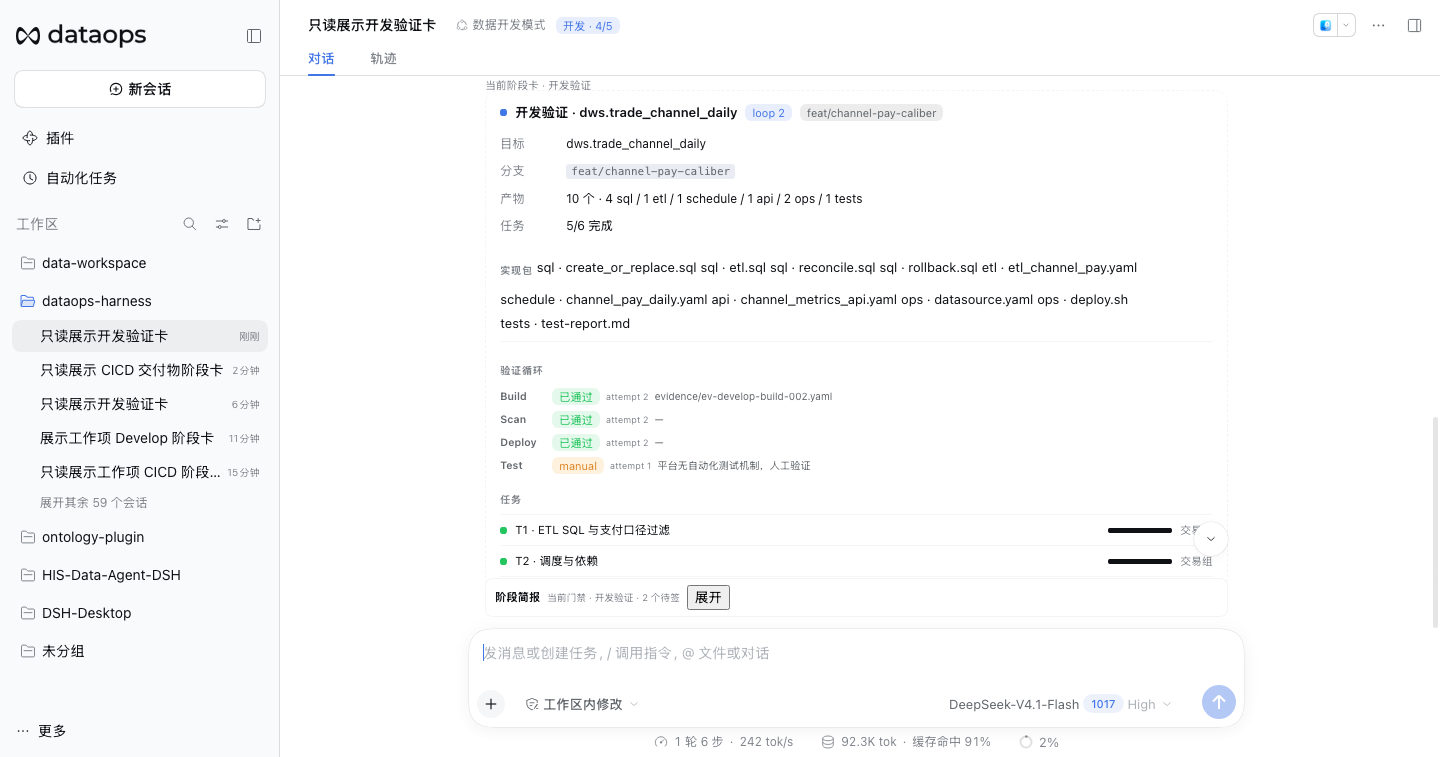
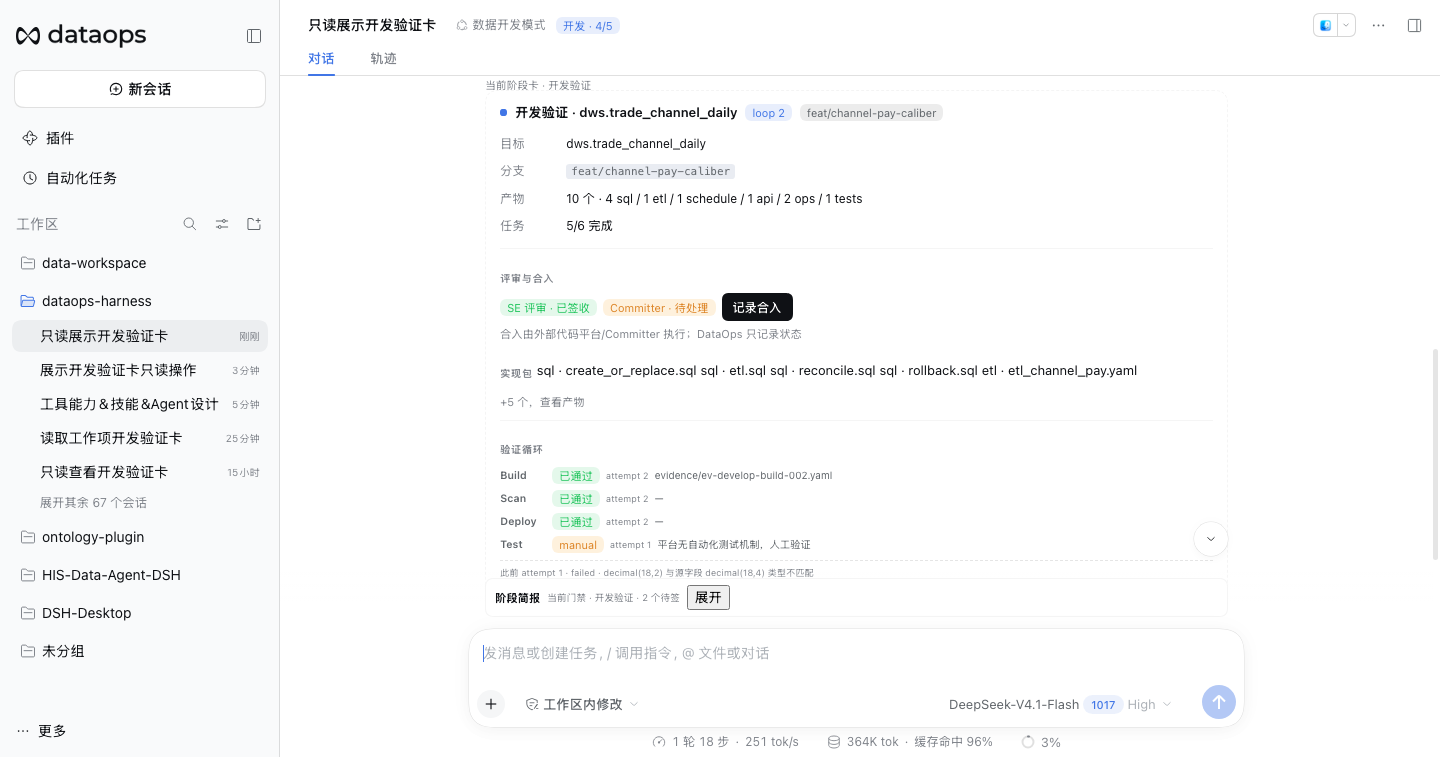
refactor: simplify develop gate and clean stage 0-5 skills

diff --git a/packages/dataops-client/src/cards.js b/packages/dataops-client/src/cards.js
@@ -194,6 +194,8 @@ export function createDataopsCards(React) {
     '.do-dev-detail{min-width:0;color:var(--dsw-alias-label-secondary,#61666b);font-size:10px;overflow:hidden;text-overflow:ellipsis;white-space:nowrap}',
     '.do-dev-attempts{margin-top:4px;padding-top:4px;border-top:1px dashed var(--dsw-alias-border-l2,rgba(0,0,0,.12))}',
     '.do-dev-attempt-line{font-size:9px;line-height:16px;color:var(--dsw-alias-label-tertiary,#81858c)}',
+    '.do-dev-gates{margin-top:8px;padding-top:7px;border-top:1px solid var(--dsw-alias-border-l1,rgba(0,0,0,.06))}',
+    '.do-dev-gate-row{display:flex;align-items:center;gap:6px;flex-wrap:wrap;margin-top:5px}',
     '.do-dev-warning{margin-top:7px;padding:6px 8px;border-radius:6px;background:color-mix(in srgb,var(--dsw-alias-state-warn-primary,#f59e0b) 10%,transparent);color:var(--dsw-alias-state-warn-primary,#b45309);font-size:10px}',
     '.do-dev-artifacts{display:flex;gap:4px;align-items:center;flex-wrap:wrap;margin-top:7px}',
     '.do-cicd-pipeline{display:flex;gap:5px;flex-wrap:wrap;margin:7px 0;padding:7px;border:1px solid var(--dsw-alias-border-l1,rgba(0,0,0,.07));border-radius:8px;background:var(--dsw-alias-bg-l2,#f7f8fa)}',
@@ -1049,9 +1051,25 @@ export function createDataopsCards(React) {
         h('dt', null, '产物'), h('dd', null, artifacts.length + ' 个 · ' + Object.keys(counts).map(function (k) { return counts[k] + ' ' + k }).join(' / ')),
         h('dt', null, '任务'), h('dd', null, tasks.filter(function (t) { return t.status === 'done' }).length + '/' + tasks.length + ' 完成')
       ),
+      h('div', { className: 'do-dev-gates' },
+        h('div', { className: 'do-label' }, '评审与合入'),
+        h('div', { className: 'do-dev-gate-row' },
+          h(Pill, { key: 'se', tone: (review.se && review.se.status === 'approved') ? 'pass' : 'warn' }, 'SE 评审 · ' + statusText((review.se && review.se.status) || 'pending')),
+          gateReady && (!review.se || review.se.status !== 'approved')
+            ? h(Btn, { key: 'se-action', variant: 'ghost', onClick: function () { signoff('develop.code_review', 'se', (review.se && review.se.approver) || '王工') } }, 'SE 通过')
+            : null,
+          h(Pill, { key: 'committer', tone: merge.status === 'merged' ? 'pass' : 'warn' }, 'Committer · ' + statusText(merge.status || (review.committer && review.committer.status) || 'waiting')),
+          gateReady && (!merge.status || merge.status === 'pending') && (!review.committer || ['pending', 'waiting'].includes(review.committer.status))
+            ? h(Btn, { key: 'merge-action', variant: 'primary', onClick: function () { signoff('develop.merge', 'committer', (review.committer && review.committer.approver) || '代码平台') } }, '记录合入')
+            : null,
+          merge.commit ? h('span', { className: 'do-muted do-meta' }, merge.commit) : null
+        ),
+        h('div', { className: 'do-muted', style: { marginTop: '3px' } }, '合入由外部代码平台/Committer 执行；DataOps 只记录状态')
+      ),
       artifacts.length ? h('div', { className: 'do-dev-artifacts' },
         h('div', { className: 'do-label' }, '实现包'),
-        artifacts.map(function (a, i) { return h('span', { key: i, className: 'do-chip', title: a.path || '' }, (a.type || 'artifact') + ' · ' + (a.path || '').split('/').pop()) })
+        artifacts.slice(0, 5).map(function (a, i) { return h('span', { key: i, className: 'do-chip', title: a.path || '' }, (a.type || 'artifact') + ' · ' + (a.path || '').split('/').pop()) }),
+        artifacts.length > 5 ? h('span', { className: 'do-muted' }, '+' + (artifacts.length - 5) + ' 个，查看产物') : null
       ) : null,
       Object.keys(validation).length ? h('div', { className: 'do-dev-validation' },
         h('div', { className: 'do-label' }, '验证循环'),
@@ -1059,8 +1077,10 @@ export function createDataopsCards(React) {
         h('div', { className: 'do-dev-attempts' }, ['build', 'scan', 'deploy', 'test'].map(function (key) {
           var v = validation[key]
           if (!v || !Array.isArray(v.attempts)) return null
-          return h('div', { key: key, className: 'do-dev-attempt-line' }, v.attempts.map(function (a, i) {
-            return h('div', { key: i }, 'attempt ' + (a.attempt || i + 1) + ' · ' + statusText(a.status) + ' · ' + (a.error || a.reason || a.note || a.action || '—'))
+          var failed = v.attempts.filter(function (a) { return a.status !== 'passed' }).slice(0, 1)
+          if (!failed.length) return null
+          return h('div', { key: key, className: 'do-dev-attempt-line' }, failed.map(function (a, i) {
+            return h('div', { key: i }, '此前 attempt ' + (a.attempt || i + 1) + ' · ' + statusText(a.status) + ' · ' + (a.error || a.reason || a.note || a.action || '—'))
           }))
         }))
       ) : null,
@@ -1076,14 +1096,6 @@ export function createDataopsCards(React) {
         })
       ) : null,
       (m.gaps || []).length ? h(Gaps, { gaps: m.gaps }) : null,
-      h('div', { className: 'do-review' },
-        h('span', { className: 'do-review-label' }, '评审/合入'),
-        h(Pill, { key: 'se', tone: (review.se && review.se.status === 'approved') ? 'pass' : 'warn' }, 'SE · ' + statusText((review.se && review.se.status) || 'pending')),
-        h(Pill, { key: 'committer', tone: merge.status === 'merged' ? 'pass' : 'warn' }, 'Committer · ' + statusText(merge.status || (review.committer && review.committer.status) || 'waiting')),
-        merge.commit ? h('span', { className: 'do-muted do-meta' }, merge.commit) : null
-      ),
-      h(SignoffPanel, { model: m, gate: 'develop.code_review', roles: gateReady ? [{ key: 'se', label: 'SE 评审', actor: (review.se && review.se.approver) || '王工', action: 'SE 通过' }] : [] }),
-      h(SignoffPanel, { model: m, gate: 'develop.merge', roles: gateReady ? [{ key: 'committer', label: 'Committer', actor: (review.committer && review.committer.approver) || '代码平台', action: '记录合入' }] : [] }),
       h(ArtifactModal, { open: artifact[0], onClose: function () { artifact[1](false) }, artifact: deliverablePath(m), value: m })
     )
   }

diff --git a/.agents/skills/dataops-demo/SKILL.md b/.agents/skills/dataops-demo/SKILL.md
@@ -1,48 +1,41 @@
 ---
 name: dataops-demo
-description: 用户要演示 DataOps 工作台的 6 阶段流程或排障场景时使用；按 P2 交付物路径走 mock 演示，不写业务系统。
+description: 用户要演示 DataOps 工作台 Stage 0–5 或排障场景时使用；按已确认的 mock/seed 路径演示，不写业务系统，不展示 Stage 6。
 ---
 
-# DataOps Demo（P2）
+# DataOps Demo（Stage 0–5）
 
 ## 何时用
 
-用户说「跑一遍完整演示」「走 6 个阶段」「演示排障」「用 mock 数据看看」时。
+用户说「跑一遍完整演示」「走 0 到 5」「演示开发验证」「演示数据 CICD」「演示排障」「用 mock 数据看看」时。
 
-## 6 阶段
+## 主线
 
-默认 `scenario=channel-report`，按 `dataops-workflow` 推进，不跳过：
+1. **US**：`dataops_shared_read_us` → USPicker；选中 US-3821；`dataops_shared_ensure_workitem`。
+2. **需求**：需求卡；BA + 需求方签收。
+3. **设计**：DesignCard + DataMap 路径/资产；独立血缘/画像。
+4. **3a/3b/3c**：Analysis → Solution → TechPlan；3a blocking 不能进 3b；3c 只展开一层设计血缘。
+5. **Stage 4**：`dataops_shared_read_develop` 产多产物；Build/Scan/Deploy/Test attempt；SE review + Committer merge；DataOps 不执行 merge。
+6. **Stage 5**：`dataops_cicd_pipeline` 一条 pipeline + 制品包 + manifest/checksum + 外部环境只读。
+7. **停止**：Stage 5 完成即停；Stage 6 不实现、不展示。
 
-1. 需求：用 `dataops-deliverable-templates` 产 `deliverables/requirement.yaml` → presenter
-2. 设计：产 `deliverables/design.yaml` → presenter
-3. 方案：
-   - 分析：`deliverables/analysis.yaml`
-   - 需求方案：`deliverables/solution.yaml`
-   - 技术方案：`deliverables/tech-plan.yaml`
-   - 都走 presenter
-4. 开发：产 `deliverables/change.sql` + `deliverables/develop.yaml` → presenter；用 `sql-review` 自查
-5. CICD：
-   - 扫描：`dataops_cicd_scan`
-   - 编译：`dataops_cicd_compile`
-   - 测试：`dataops_cicd_test`
-   - 发布：`dataops_cicd_release`（必须走 DSH 原生审批）
-6. 复盘：产 `deliverables/postmortem.yaml` → presenter
+## 快速演示
 
-不要把内容阶段交给已下线的旧内容工具；事实用 `dataops_shared_read_table` / `_lineage` / `_evidence` / `_profile`。
+- 固定 demo：`node scripts/seed-dataops-demo.mjs --stage develop`
+- 只读历史卡：`dataops_shared_read_stage` 按 stage 读取。
+- 契约彩排：`node scripts/e2e/dataops-stage0-5-contract.mjs`
+- 浏览器旅程：`node scripts/e2e/dataops-p1.4.mjs --scenario journey-ui --keep`
 
-## 排障
+## 失败/回流
 
-另开会话：
-
-1. `dataops_shared_read_logs` 取信号
-2. `pipeline-debug` 判断时间线/根因/处置
-3. 产 `deliverables/incident.yaml` → presenter
-
-不调用 `dataops_incident_triage`。
+- 3a：blocking 未关不能签收。
+- Stage 4：build/scan failed → 隐藏合入 → 修复后重新编译。
+- Stage 5：pipeline 失败回 Stage 4；外部环境 pending/拒绝不改变 DataOps pass。
 
 ## 边界
 
 - 所有数据是 mock；明确说不是生产结论。
-- 发布审批拒绝/取消/不可用时不说“已发布”。
-- 不调用写平台接口，不创建真实任务。
-- 6 阶段和排障都要给阶段/交付物/证据/gaps 的摘要，不逐条复述工具名。
+- 不使用 `dataops_cicd_release`；Stage 5 不接 DSH 原生 approval。
+- 不执行真实部署、发布、回滚、US 写回。
+- 不展示 Stage 6 假页面。
+- 不逐条复述工具名；用户看阶段、卡片、证据和 gaps。

diff --git a/.agents/skills/dataops-workflow/SKILL.md b/.agents/skills/dataops-workflow/SKILL.md
@@ -43,7 +43,7 @@ decision.md    # 审批记录
 1. 调 `dataops_shared_update_workitem` 更新 `stage` / `stages[stage]` / `substage`
 2. 同一 patch 更新 `deliverables`、`gaps`、`next`；不确定时先 `dryRun: true`
 3. 工具会在 `plan.md` 追加一行：时间 + 变更 + via update
-4. 发布前把 `approvals[gate=release].status` 置为 `pending`，停下来等人确认
+4. Stage 5 不通过 DSH approval 发布；外部部署审批由公司发布平台负责，workitem 只记录外部审批 ID/状态
 
 不确定交付物或只问一句时，不强行建目录。
 
